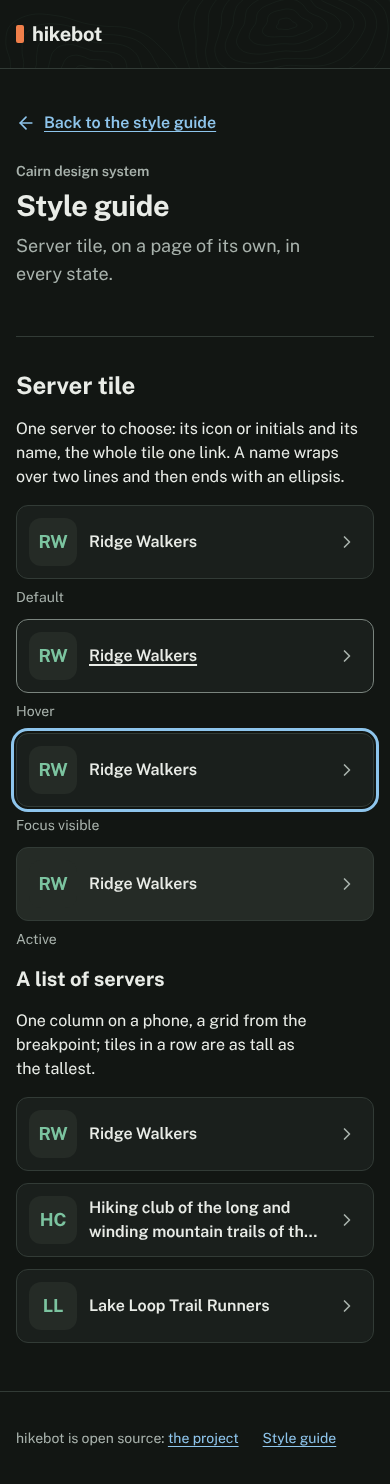
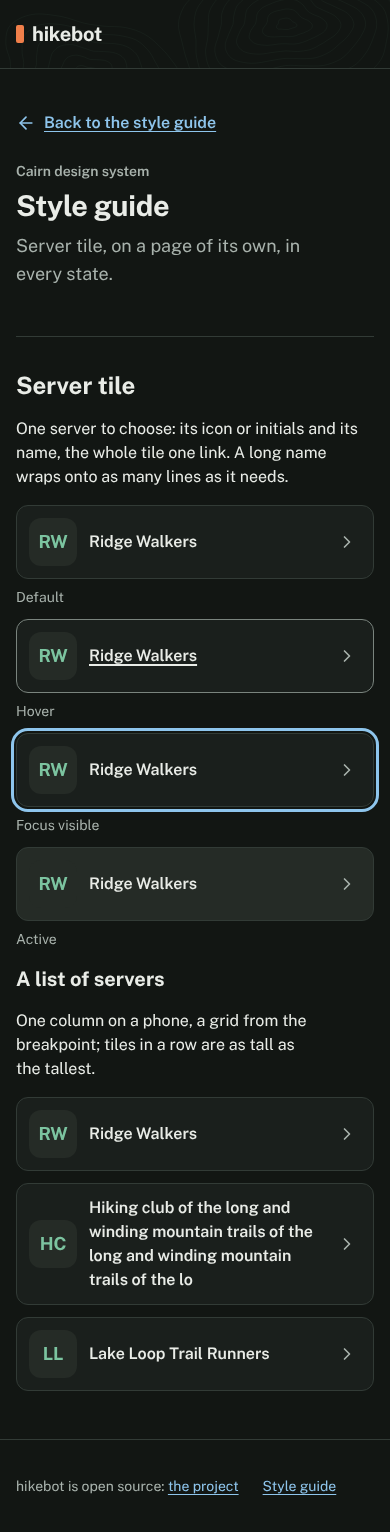
Fix what the first audit found: whole server names, code at the smallest size, a whole target for a lone Map link; allow the header's cut name

diff --git a/src/web/components/map-links.tsx b/src/web/components/map-links.tsx
@@ -6,7 +6,8 @@
  * buttons, then OpenStreetMap's credit. `compact`, for an option of a
  * vote, as the poll message does: the place name and a Map link in one
  * small line, named after the option; the list it is in carries the credit
- * once (`OsmCredit`). Plain links: nothing is loaded from the map sites.
+ * once (`OsmCredit`). Without a place name the Map link stands alone, so
+ * it gets a whole touch target (`u-target`). Plain links: nothing is loaded from the map sites.
  * Built from the layout classes, the utilities and Button, so it has no
  * stylesheet of its own.
  */
@@ -52,7 +53,10 @@ export function MapLinks({
         <MapPinIcon size="small" />
         <span>
           {place.name !== null && <>{place.name} · </>}
-          <a href={place.osmUrl}>
+          <a
+            href={place.osmUrl}
+            class={place.name === null ? "u-target" : undefined}
+          >
             Map
             {label !== undefined && (
               <span class="u-visually-hidden"> of {label}</span>

diff --git a/public/assets/cairn/components/server-tile.css b/public/assets/cairn/components/server-tile.css
@@ -1,7 +1,7 @@
 /*
  * Server tile: one server as one link, icon, name and a chevron in a row on
- * a card-like surface. The name wraps over two lines at most and then ends
- * with an ellipsis; a long word breaks rather than widening the tile. The
+ * a card-like surface. The name wraps onto as many lines as it needs, never
+ * cut short; a long word breaks rather than widening the tile. The
  * list is one column on a phone and a grid of tiles from the breakpoint.
  * States: :hover, :active, :focus-visible (from the base layer), and
  * data-preview for the style guide.
@@ -39,13 +39,8 @@
 }
 
 .server-tile__name {
-  display: -webkit-box;
   flex: 1;
   min-width: 0;
-  overflow: hidden;
-  -webkit-box-orient: vertical;
-  -webkit-line-clamp: 2;
-  line-clamp: 2;
   overflow-wrap: anywhere;
   font-weight: var(--font-weight-semibold);
 }

diff --git a/test/web/components/map-links.test.tsx b/test/web/components/map-links.test.tsx
@@ -47,6 +47,20 @@ describe("MapLinks", () => {
     ).toBe("Map of Lake");
   });
 
+  it("gives the compact Map link a whole touch target only when it stands alone", () => {
+    const alone = render(
+      <MapLinks
+        place={{ ...PLACE, name: null }}
+        variant="compact"
+        label="Lake"
+      />,
+    );
+    expect(alone).toContain('class="u-target"');
+    expect(
+      render(<MapLinks place={PLACE} variant="compact" label="Lake" />),
+    ).not.toContain("u-target");
+  });
+
   it("puts a name with markup in it as text", () => {
     const html = render(
       <MapLinks place={{ ...PLACE, name: "<script>alert(1)</script>" }} />,

diff --git a/public/assets/cairn/cairn.css b/public/assets/cairn/cairn.css
@@ -233,7 +233,8 @@
   samp,
   pre {
     font-family: var(--font-mono);
-    font-size: 0.9375em;
+    /* A shade smaller than the words around it, never under the smallest size. */
+    font-size: max(0.9375em, var(--font-size-small));
   }
 
   code {
@@ -324,6 +325,14 @@
   .u-lead {
     font-size: var(--font-size-lead);
     line-height: var(--line-height-lead);
+  }
+
+  /* A link standing alone on a small line, given a whole touch target. */
+  .u-target {
+    display: inline-flex;
+    align-items: center;
+    min-height: var(--target-min);
+    min-width: var(--target-min);
   }
 
   .u-numeric {

diff --git a/src/web/pages/styleguide/server-tile.tsx b/src/web/pages/styleguide/server-tile.tsx
@@ -20,7 +20,7 @@ function ServerTileSection() {
     <Section
       id="server-tile"
       title="Server tile"
-      intro="One server to choose: its icon or initials and its name, the whole tile one link. A name wraps over two lines and then ends with an ellipsis."
+      intro="One server to choose: its icon or initials and its name, the whole tile one link. A long name wraps onto as many lines as it needs."
     >
       <ul class="server-tile-list list-reset">
         {STATES.map(({ state, preview }) => (

diff --git a/test/web/components/server-tile.test.tsx b/test/web/components/server-tile.test.tsx
@@ -41,7 +41,7 @@ describe("ServerTile", () => {
     expect(await spokenText(html)).toBe("Lake Loop");
   });
 
-  it("keeps a 100-character name whole in the markup, for the stylesheet to clamp", async () => {
+  it("keeps a 100-character name whole, to wrap rather than be cut short", async () => {
     const html = render(
       <ServerTile server={{ id: "3", name: LONG_NAME, icon: null }} />,
     );

diff --git a/docs/design-system.md b/docs/design-system.md
@@ -526,7 +526,8 @@ Block, element, modifier, in lower case with hyphens:
   `.stack`, `.cluster`, `.grid`, `.page-heading`, `.list-reset`.
 - **Page** styles are blocks named after the page: `.styleguide-swatch`.
 - **Utilities** start with `u-`: `.u-visually-hidden`, `.u-muted`,
-  `.u-small`, `.u-lead`, `.u-numeric`.
+  `.u-small`, `.u-lead`, `.u-numeric`, `.u-target` (a link standing alone
+  on a small line, at least 44px high and wide).
 
 ## The page shell
 
@@ -837,8 +838,9 @@ its styles in `public/assets/cairn/components/`, its unit test in
     OpenStreetMap's credit, "© OpenStreetMap contributors", linking its
     copyright page. `compact`, in a vote's row, as the poll message does:
     one small muted line, a map pin, the place name and a **Map** link
-    named after the option ("Map of Lake Serene"); the tally list carries
-    the credit once, under its rows.
+    named after the option ("Map of Lake Serene"); without a place name the
+    Map link stands alone and is a whole 44px target; the tally list
+    carries the credit once, under its rows.
   - _Variants:_ `full`, `compact`; with or without a place name.
   - _States:_ the links' and buttons' own.
   - _Do:_ use plain links. _Don't:_ embed a map, a tile or a picture from
@@ -946,9 +948,8 @@ its styles in `public/assets/cairn/components/`, its unit test in
 - **Server tile** (`server-tile.tsx`, its own style guide page): one server
   to choose, as one link to `/g/<id>` with one focus ring: the server's
   icon or initials (Avatar, decorative), its name and a chevron, at least
-  44px high. The name wraps over two lines and then ends with "…" (the
-  whole name stays in the markup, and is the link's accessible name); a
-  long word breaks rather than widening the tile. States: default, hover
+  44px high. The name wraps onto as many lines as it needs and is never
+  cut short; a long word breaks rather than widening the tile. States: default, hover
   (stronger edge, underlined name), focus-visible, active.
   `ServerTileList` lays tiles out in one column below the breakpoint and
   in a grid of tiles at least `--width-tile-min` wide from it, each row as
